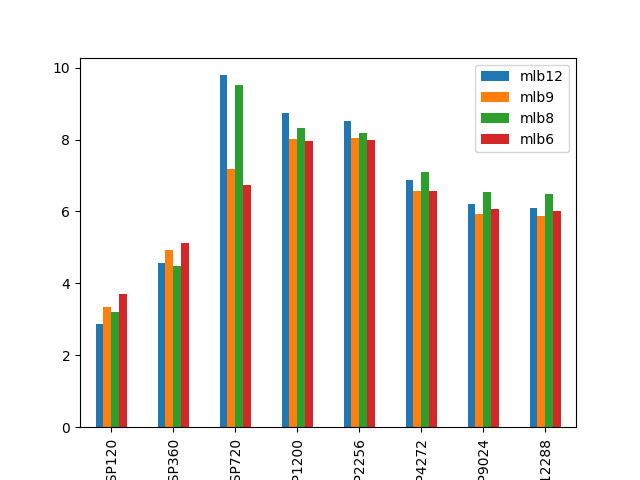
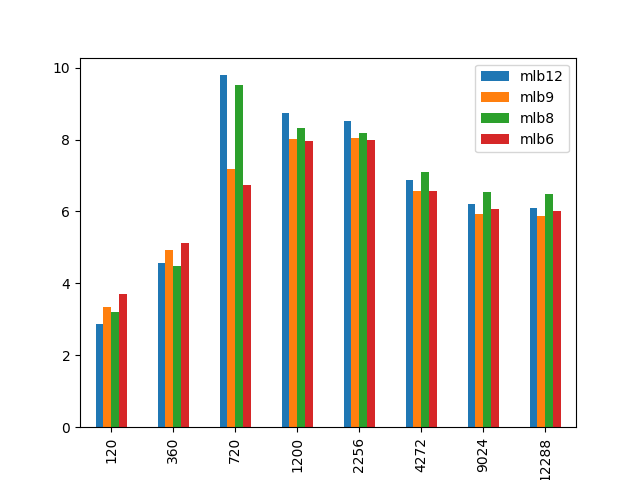
update speed up plot (for different number of DSPs)

diff --git a/ml_benchmark_gen/plot_speedup_per_NumOfDSPs.py b/ml_benchmark_gen/plot_speedup_per_NumOfDSPs.py
@@ -23,6 +23,7 @@ if __name__ == "__main__":
 
 	DSP_dirs = [int(DSP_dir) for DSP_dir in DSP_dirs]
 	DSP_dirs = sorted(DSP_dirs)
+	DSP_names = DSP_dirs
 	DSP_dirs = ['%s' % (args.dir + '/DSP' + str(DSP_dir)) for DSP_dir in DSP_dirs]			
 	num_DSPs = len(DSP_dirs)	
 	print(DSP_dirs)
@@ -40,9 +41,10 @@ if __name__ == "__main__":
 	print(plot_table)
 	
 
-	df2 = pd.DataFrame(plot_table, columns=["mlb12", "mlb9", "mlb8", "mlb6"], index=DSP_dirs)
-	df2.plot.bar();
+	df = pd.DataFrame(plot_table, columns=["mlb12", "mlb9", "mlb8", "mlb6"], index=DSP_names)
+	df.plot.bar();
 	plt.savefig(args.dir + '/plot_speedup_per_NumOfDSPs.png');
-	np.savetxt(args.dir + '/plot_speedup_per_NumOfDSPs.csv', plot_table, delimiter=",")
+	#np.savetxt(args.dir + '/plot_speedup_per_NumOfDSPs.csv', plot_table, delimiter=",")
+	df.to_csv(args.dir + '/plot_speedup_per_NumOfDSPs.csv', index=True, header=True, sep=',')
 	plt.show()
 	
